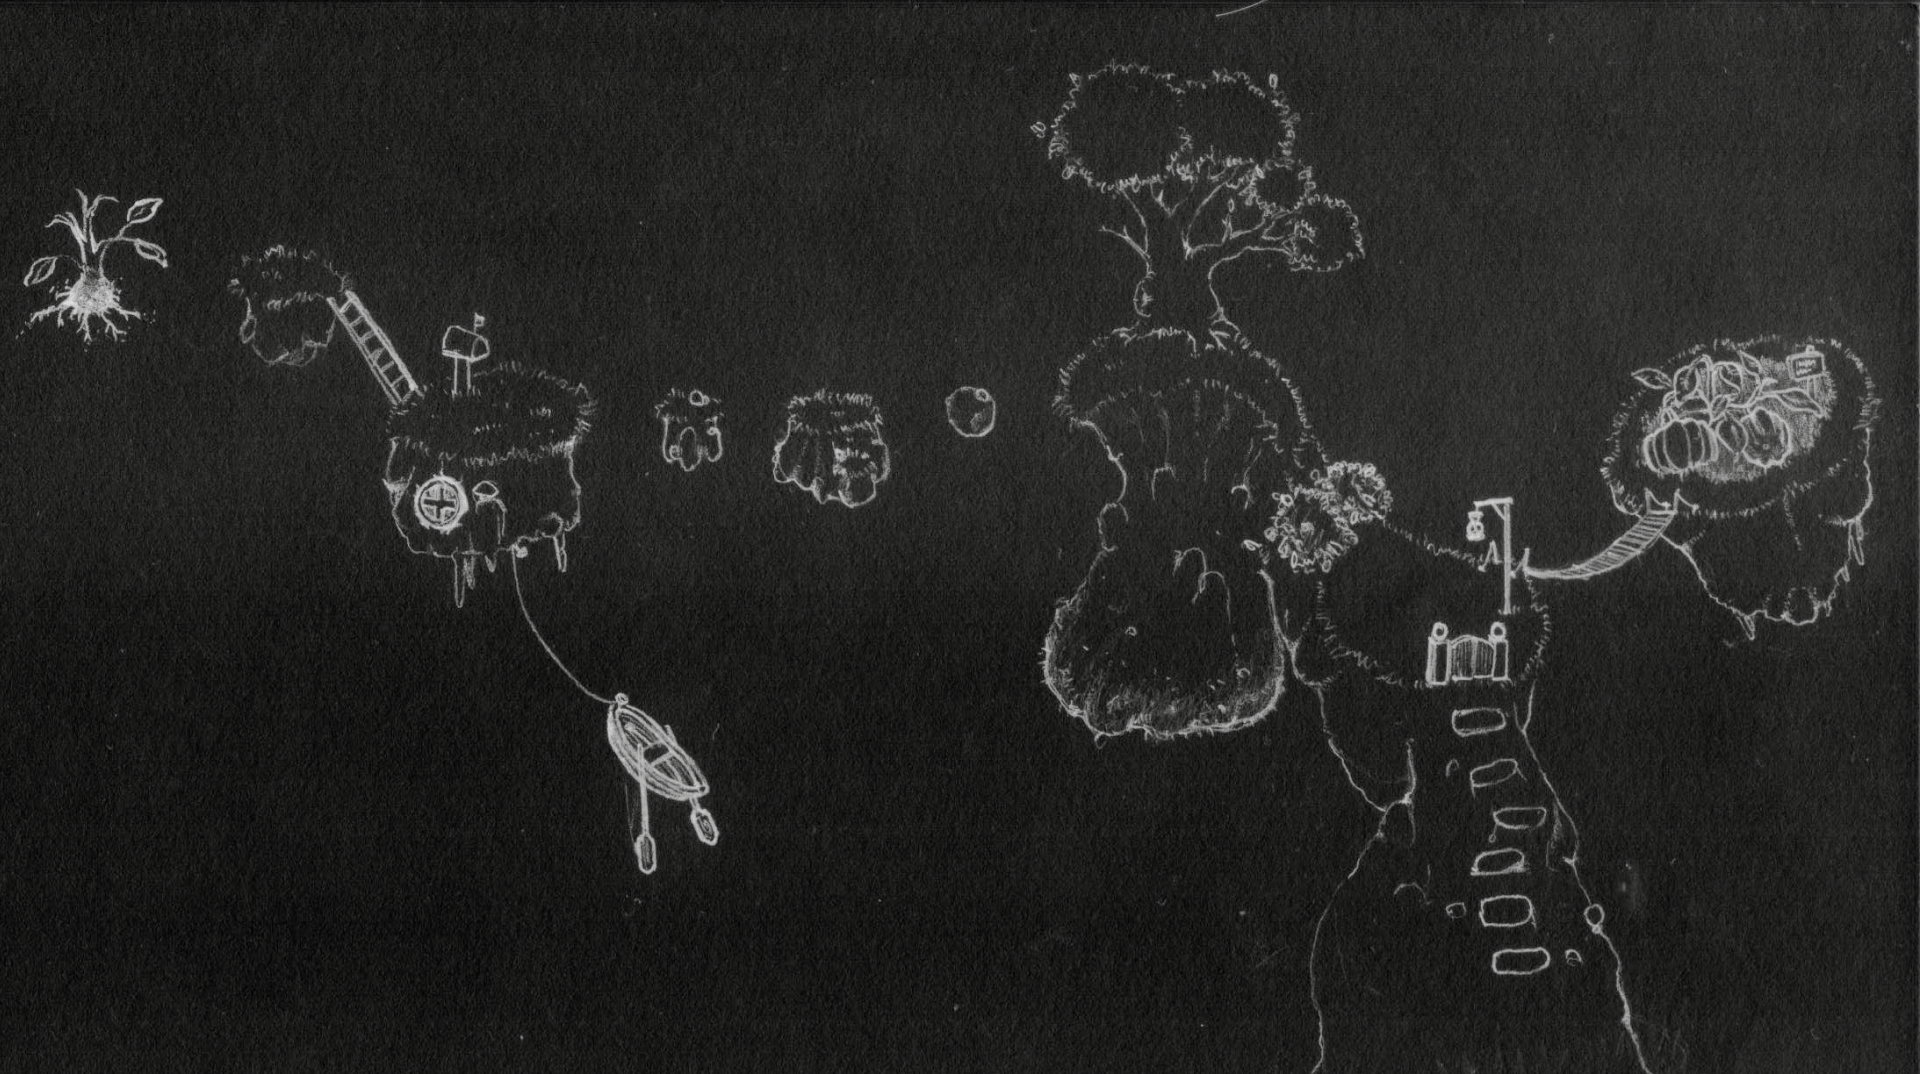
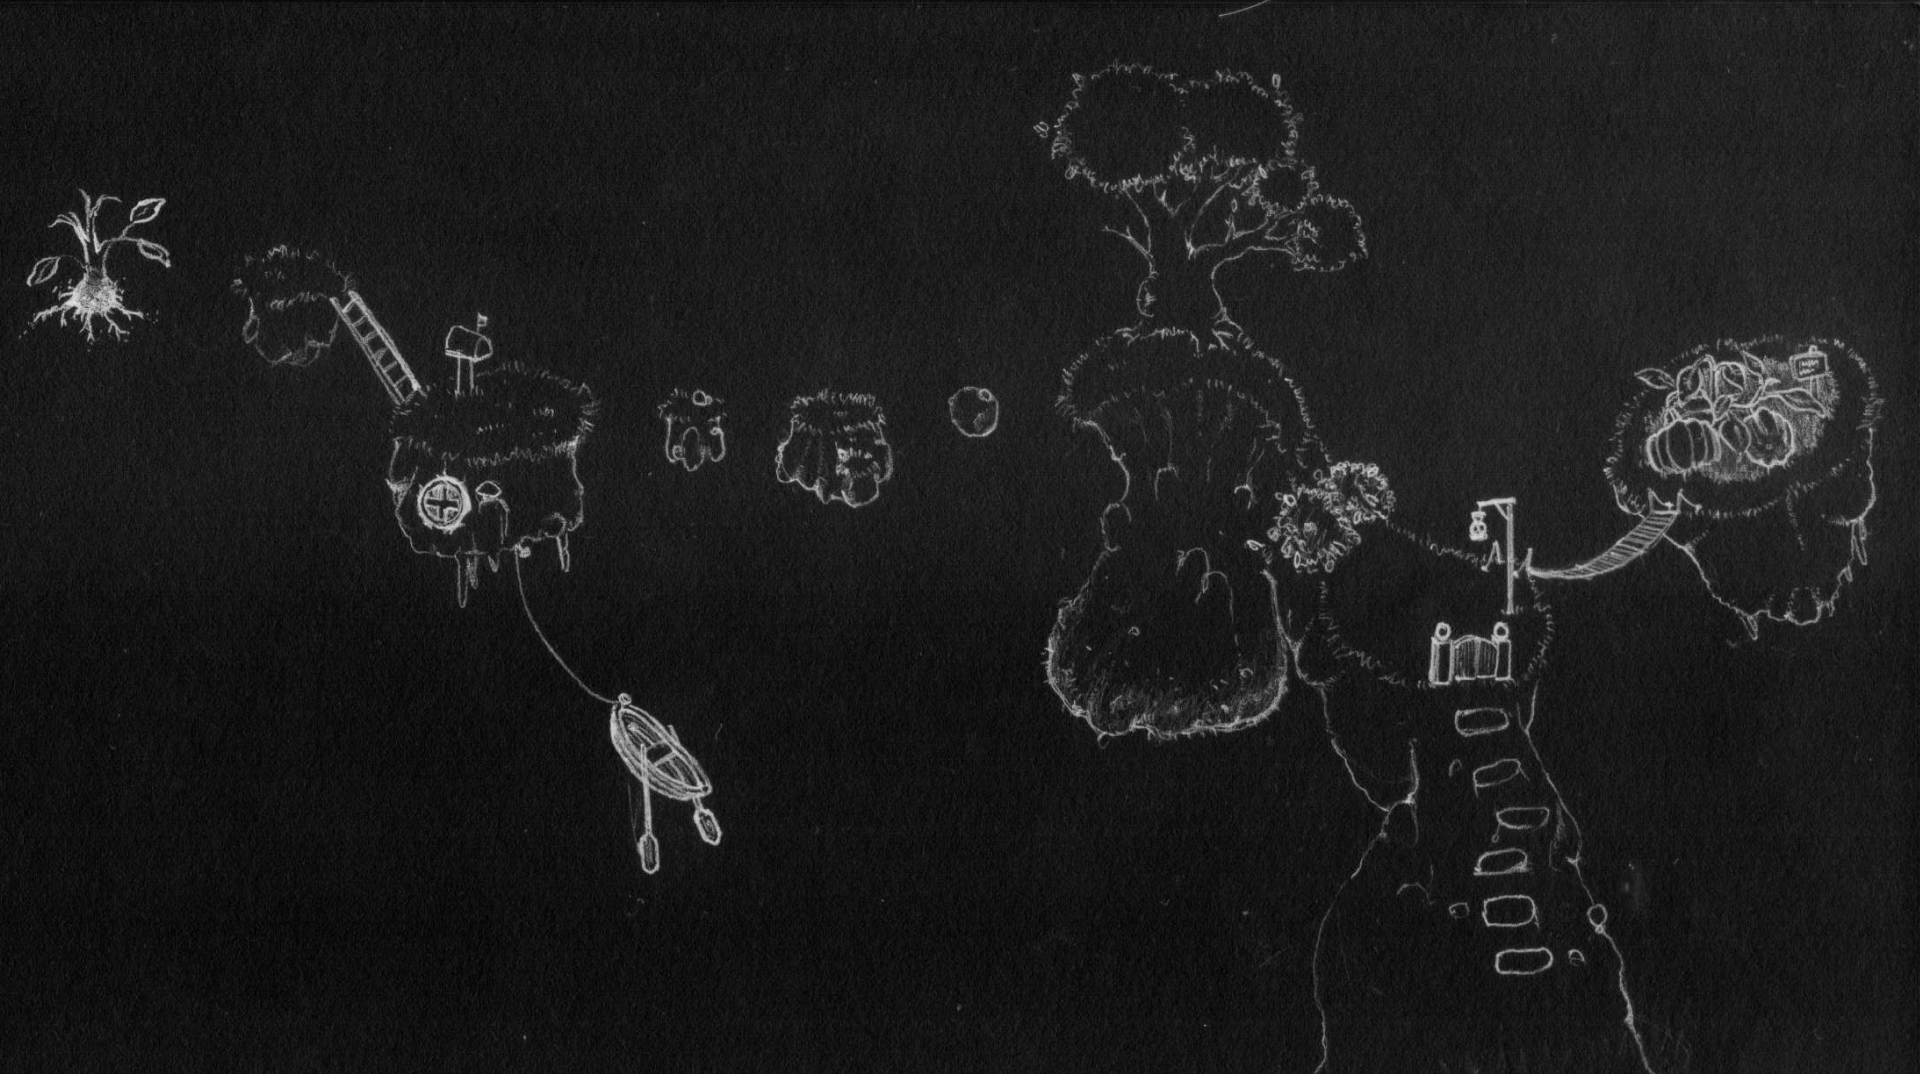
scroll contact page illustration if screen too small

diff --git a/src/views/ContactView.vue b/src/views/ContactView.vue
@@ -1,15 +1,27 @@
 <script setup lang="ts">
+import { ref } from 'vue'
 import MaterialIcon from '@/components/MaterialIcon.vue'
 import LinkedInIcon from '@/components/icons/LinkedInIcon.vue'
 import GithubIcon from '@/components/icons/GithubIcon.vue'
+import illustration from '@/assets/images/illustration.png'
+
+const height = ref(window.innerHeight + 'px')
+const isSliding = ref(window.innerWidth / window.innerHeight < 1920 / 1074)
+
+window.onresize = () => {
+  height.value = window.innerHeight + 'px'
+  isSliding.value = window.innerWidth / window.innerHeight < 1920 / 1074
+}
 </script>
 
 <template>
   <div class="absolute top-0 left-0 w-full h-full overflow-hidden">
-    <img
-      src="@/assets/images/illustration.png"
-      class="w-full h-full object-cover absolute top-0 -right-0.5"
-    />
+    <div
+      :style="{
+        backgroundImage: 'url(' + illustration + ')'
+      }"
+      :class="isSliding ? 'illustration' : 'illustration-static'"
+    ></div>
     <div class="flex flex-col items-start absolute left-14 bottom-14 max-sm:left-8 max-sm:bottom-8">
       <h1 class="mb-5 text-primary">Contact</h1>
       <a class="group mb-4 flex items-center gap-x-6" href="mailto:mkofdwu@gmail.com">
@@ -40,3 +52,34 @@ import GithubIcon from '@/components/icons/GithubIcon.vue'
     </div>
   </div>
 </template>
+
+<style scoped>
+.illustration {
+  position: absolute;
+  right: 0;
+  bottom: 0;
+  background-repeat: repeat-x;
+  background-size: contain;
+
+  --width: calc(v-bind(height) * 1920 / 1074);
+  width: calc(2 * var(--width));
+  height: 100%;
+  animation: slide 60s linear infinite;
+}
+
+@keyframes slide {
+  0% {
+    transform: translateX(0);
+  }
+  100% {
+    transform: translateX(var(--width));
+  }
+}
+
+.illustration-static {
+  width: 100%;
+  height: 100%;
+  background-size: cover;
+  background-position: center;
+}
+</style>
